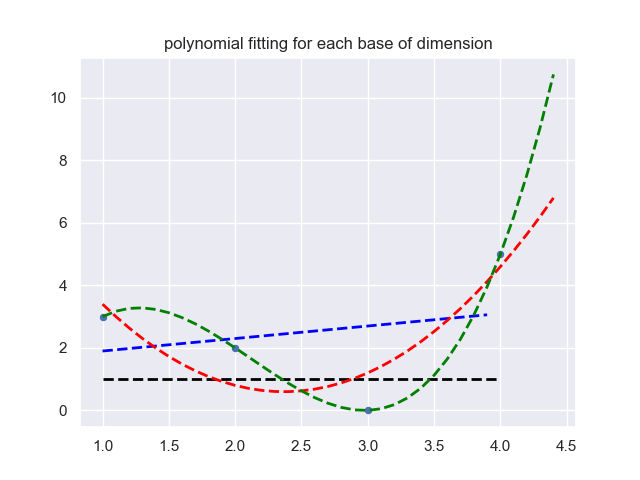
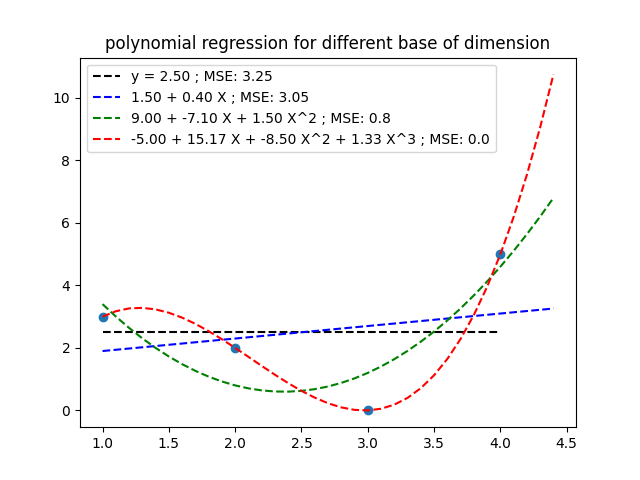
q1

diff --git a/q1.py b/q1.py
@@ -1,29 +1,26 @@
-from scipy.optimize import curve_fit
 import matplotlib.pyplot as plt
 import numpy as np
 from numpy import arange
-import seaborn as sns
+from polynomial_regression import PolynomialRegression
 
-# data = {(1, 3), (2, 2), (3, 0), (4, 5)}
-x_data = [1, 2, 3, 4]
-y_data = [3, 2, 0, 5]
-sns.set_theme()
+x_data = np.array([[1, 2, 3, 4]])
+y_data = np.array([3, 2, 0, 5])
 
 
-def constant(x, a, b):
-    return 1
+def constant(a):
+    return a
 
 
 def linear(x, a, b):
-    return a * x + b
+    return a + (b * x)
 
 
 def quadratic(x, a, b, c):
-    return (a * x) + (b * x ** 2) + c
+    return a + (b * x) + (c * x ** 2)
 
 
 def cubic(x, a, b, c, d):
-    return (a * x) + (b * x ** 2) + (c * x ** 3) + d
+    return a + (b * x) + (c * x ** 2) + (d * x ** 3)
 
 
 def get_y_hats(x_data, objective_function, *args):
@@ -38,55 +35,103 @@ def get_mse(y, y_hat):
     errors = y - y_hat
     squared_errors = np.square(errors)
     mse = sum(squared_errors) / len(squared_errors)
-    return mse
+    return round(mse, 2)
 
 
-# Press the green button in the gutter to run the script.
 if __name__ == '__main__':
-    # Fi_1
-    sns.scatterplot(x=x_data, y=y_data)
-    pars, _ = curve_fit(f=constant, xdata=x_data, ydata=y_data)
-    sns.lineplot(x_data, constant(x_data, *pars), linestyle='--', linewidth=2, color='black')
+    plt.scatter(x=[1, 2, 3, 4], y=[3, 2, 0, 5])
 
-    mse = get_mse(y_data, np.array([1, 1, 1, 1]))
-    print(f"MSE for Fi_1: {mse}")
+    ########
+    # Fi_1 #
+    ########
+    print("Fi_1")
+    model_fi_1 = PolynomialRegression(degree=0)
+    model_fi_1.fit(x_data.T, y_data)
+    weights = model_fi_1.weights
+    equation_text = f'y = %.2f' % (weights[0])
+    print(f'Fitted Curve: {equation_text}')
 
-    # Fi_2
-    popt, _ = curve_fit(linear, x_data, y_data)
-    a, b = popt
-    print('y = %.5f * x + %.5f' % (a, b))
-    x_line = arange(1, 4, 0.1)
-    y_line = linear(x_line, a, b)
-    sns.lineplot(x=x_line, y=y_line, linestyle='--', linewidth=2, color='blue')
-
-    y_hats = get_y_hats(x_data, linear, a, b)
+    # calculate MSE
+    y_hats = [weights[0] for _ in range(len(x_data[0]))]
     mse = get_mse(y_data, y_hats)
-    print(f"MSE for Fi_2: {mse}")
+    print(f"MSE: {mse}")
 
-    # Fi_3
-    popt, _ = curve_fit(quadratic, x_data, y_data)
-    a, b, c = popt
-    print('y = %.5f * x + %.5f * x^2 + %.5f' % (a, b, c))
+    # Plotting
+    plt.plot(x_data[0], y_hats, label=equation_text + f" ; MSE: {mse}",
+             color='black', linestyle='dashed')
+
+    print("=========")
+
+    ########
+    # Fi_2 #
+    ########
+    print("Fi_2")
+    model_fi_2 = PolynomialRegression(degree=1)
+    model_fi_2.fit(x_data.T, y_data)
+    weights = model_fi_2.weights
+    a, b = weights
+    equation_text = f'%.2f + %.2f X' % (a, b)
+    print(f'Fitted Curve: {equation_text}')
+
+    # calculate MSE
+    y_hats = get_y_hats(x_data[0], linear, a, b)
+    mse = get_mse(y_data, y_hats)
+    print(f"MSE: {mse}")
+
+    # Plotting
+    x_line = arange(1, 4.5, 0.1)
+    y_line = linear(x_line, a, b)
+    plt.plot(x_line, y_line, label=equation_text + f" ; MSE: {mse}",
+             color='blue', linestyle='dashed')
+
+    print("=========")
+
+    ########
+    # Fi_3 #
+    ########
+    print("Fi_3")
+    model_fi_3 = PolynomialRegression(degree=2)
+    model_fi_3.fit(x_data.T, y_data)
+    weights = model_fi_3.weights
+    a, b, c = weights
+    equation_text = f'%.2f + %.2f X + %.2f X^2' % (a, b, c)
+    print(f'Fitted Curve: {equation_text}')
+
+    # calculate MSE
+    y_hats = get_y_hats(x_data[0], quadratic, a, b, c)
+    mse = get_mse(y_data, y_hats)
+    print(f"MSE: {mse}")
+
+    # Plotting
     x_line = arange(1, 4.5, 0.1)
     y_line = quadratic(x_line, a, b, c)
-    sns.lineplot(x=x_line, y=y_line, linestyle='--', linewidth=2, color='red')
+    plt.plot(x_line, y_line, label=equation_text + f" ; MSE: {mse}",
+             color='green', linestyle='dashed')
 
-    y_hats = get_y_hats(x_data, quadratic, a, b, c)
+    print("=========")
+
+    ########
+    # Fi_4 #
+    ########
+    print("Fi_4")
+    model_fi_4 = PolynomialRegression(degree=3)
+    model_fi_4.fit(x_data.T, y_data)
+    weights = model_fi_4.weights
+    a, b, c, d = weights
+    equation_text = f'%.2f + %.2f X + %.2f X^2 + %.2f X^3' % (a, b, c, d)
+    print(f'Fitted Curve: {equation_text}')
+
+    # calculate MSE
+    y_hats = get_y_hats(x_data[0], cubic, a, b, c, d)
     mse = get_mse(y_data, y_hats)
-    print(f"MSE for Fi_3: {mse}")
+    print(f"MSE: {mse}")
 
-    # Fi_4
-    popt, _ = curve_fit(cubic, x_data, y_data)
-    a, b, c, d = popt
-    print('y = %.5f * x + %.5f * x^2 + %.5f + x^3 + %.5f' % (a, b, c, d))  # THIS IS THE SAME AS IN THE BRIEF :D
+    # Plotting
     x_line = arange(1, 4.5, 0.1)
     y_line = cubic(x_line, a, b, c, d)
-    sns.lineplot(x=x_line, y=y_line, linestyle='--', linewidth=2, color='green', legend='auto')
+    plt.plot(x_line, y_line, label=equation_text + f" ; MSE: {mse}",
+             color='red', linestyle='dashed')
 
-    y_hats = get_y_hats(x_data, cubic, a, b, c, d)
-    mse = get_mse(y_data, y_hats)
-    print(f"MSE for Fi_4: {mse}")
-
-    plt.title("polynomial fitting for each base of dimension")
-    # TODO: lengend with sns...
+    plt.title("polynomial regression for different base of dimension")
+    plt.legend()
     plt.savefig('./plots/q1a.png')

diff --git a/polynomial_regression.py b/polynomial_regression.py
@@ -1,7 +1,8 @@
 import numpy as np
 import matplotlib.pyplot as plt
 
-class PolynomialRegression():
+
+class PolynomialRegression:
 
     def __init__(self, degree, learning_rate=0.01, iterations=10000):
         self.degree = degree
@@ -11,7 +12,7 @@ class PolynomialRegression():
         self.Y = None
         self.m = None
         self.n = None
-        self.W = None
+        self.weights = None
 
     # function to transform X
     def transform(self, X):
@@ -38,16 +39,16 @@ class PolynomialRegression():
 
         if method == 'gd':
             # gradient descent with MSE cost function
-            self.W = np.zeros(self.degree + 1)
+            self.weights = np.zeros(self.degree + 1)
             for i in range(self.iterations):
                 y_hat = self.predict(self.X)
                 error = y_hat - self.Y
 
                 # update weights by derivative of MSE
-                self.W = self.W - self.learning_rate * (2 / self.m) * np.dot(X_transform.T, error)
+                self.weights = self.weights - self.learning_rate * (2 / self.m) * np.dot(X_transform.T, error)
 
         elif method == 'ne':
-            self.W = np.linalg.inv(X_transform.T.dot(X_transform)).dot(X_transform.T).dot(self.Y)
+            self.weights = np.linalg.inv(X_transform.T.dot(X_transform)).dot(X_transform.T).dot(self.Y)
 
         else:
             raise NotImplementedError
@@ -57,7 +58,7 @@ class PolynomialRegression():
     def predict(self, X):
         # transform X for polynomial h( x ) = w0 * x^0 + w1 * x^1 + w2 * x^2 + ........+ wn * x^n
         X_transform = self.transform(X)
-        return np.dot(X_transform, self.W)
+        return np.dot(X_transform, self.weights)
 
 
 if __name__ == "__main__":
@@ -67,11 +68,9 @@ if __name__ == "__main__":
 
     # model training
     model = PolynomialRegression(degree=3)
-    X_transform = model.transform(X)
-    print(X_transform)
 
     model.fit(X, Y)
-    print(model.W)
+    print(model.weights)
 
     # Prediction on training set
     Y_pred = model.predict(X)
